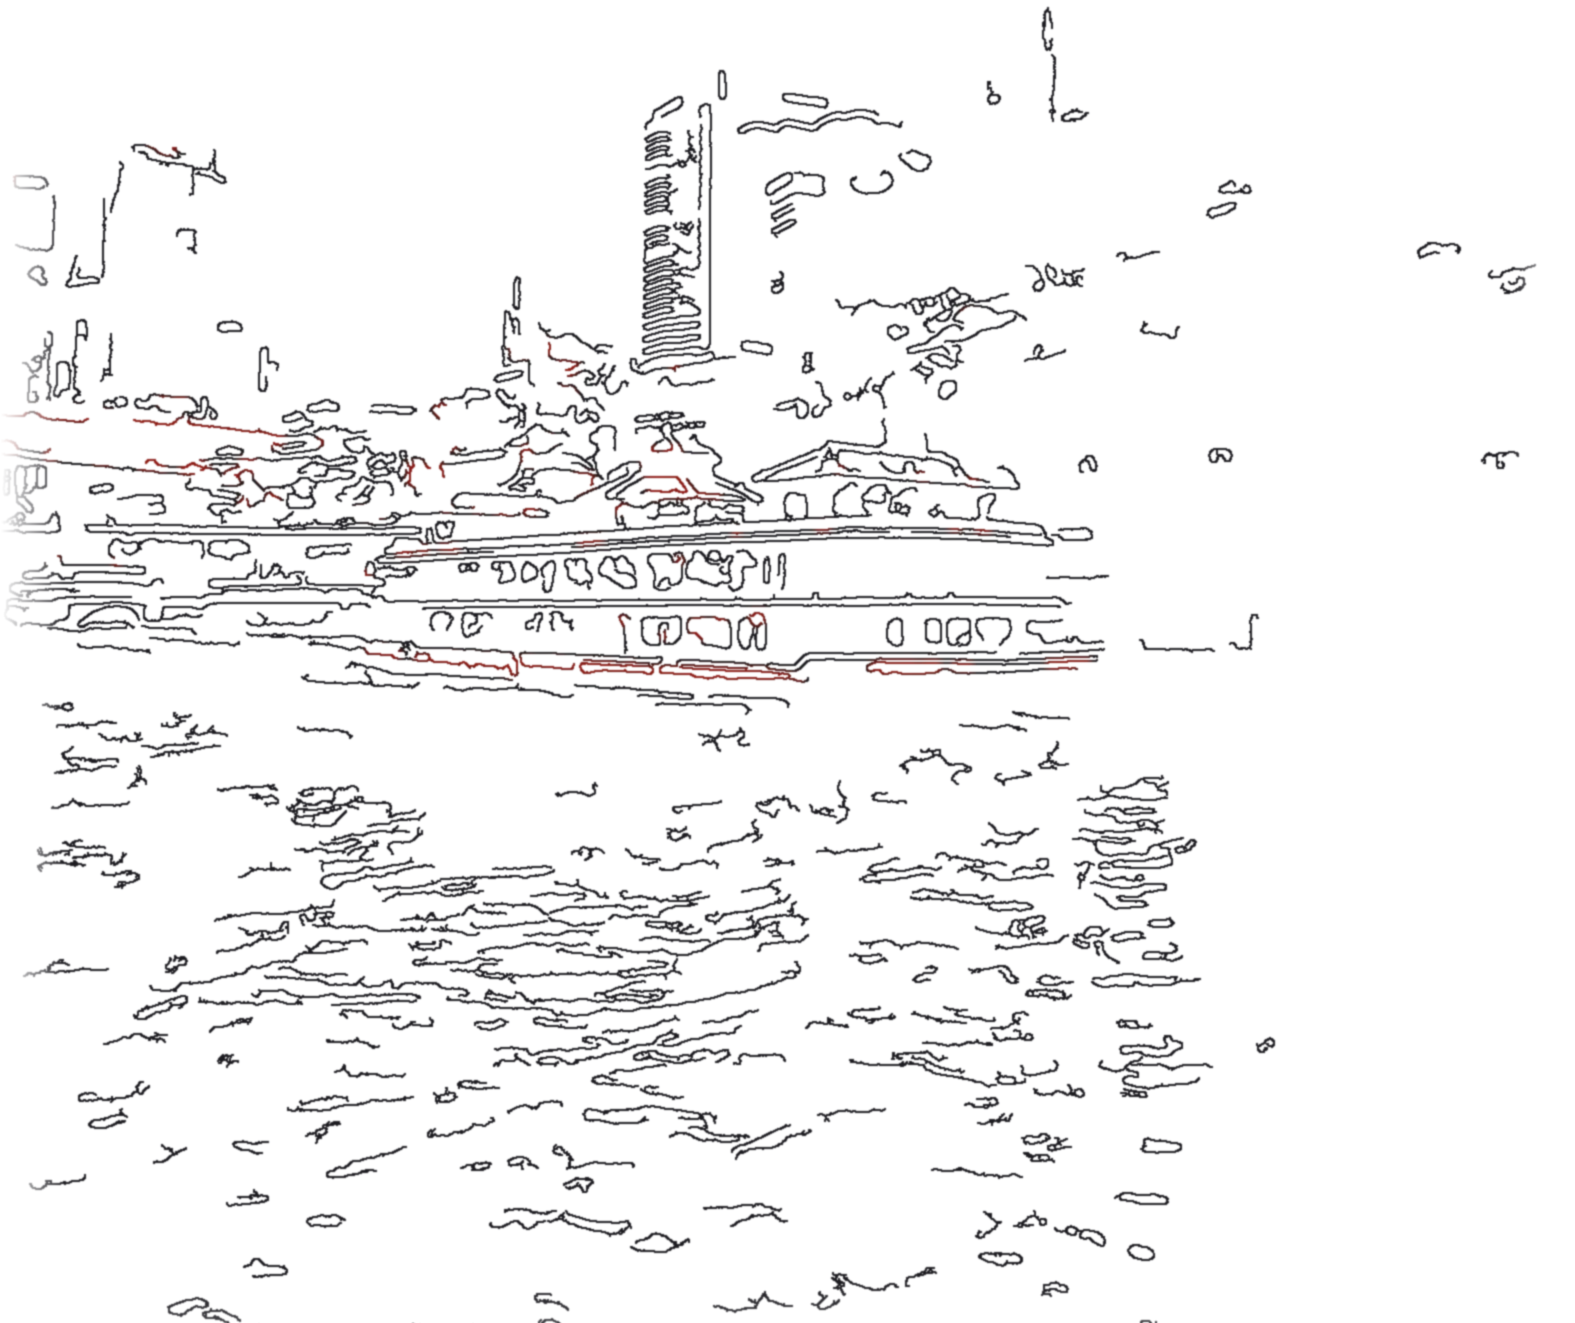
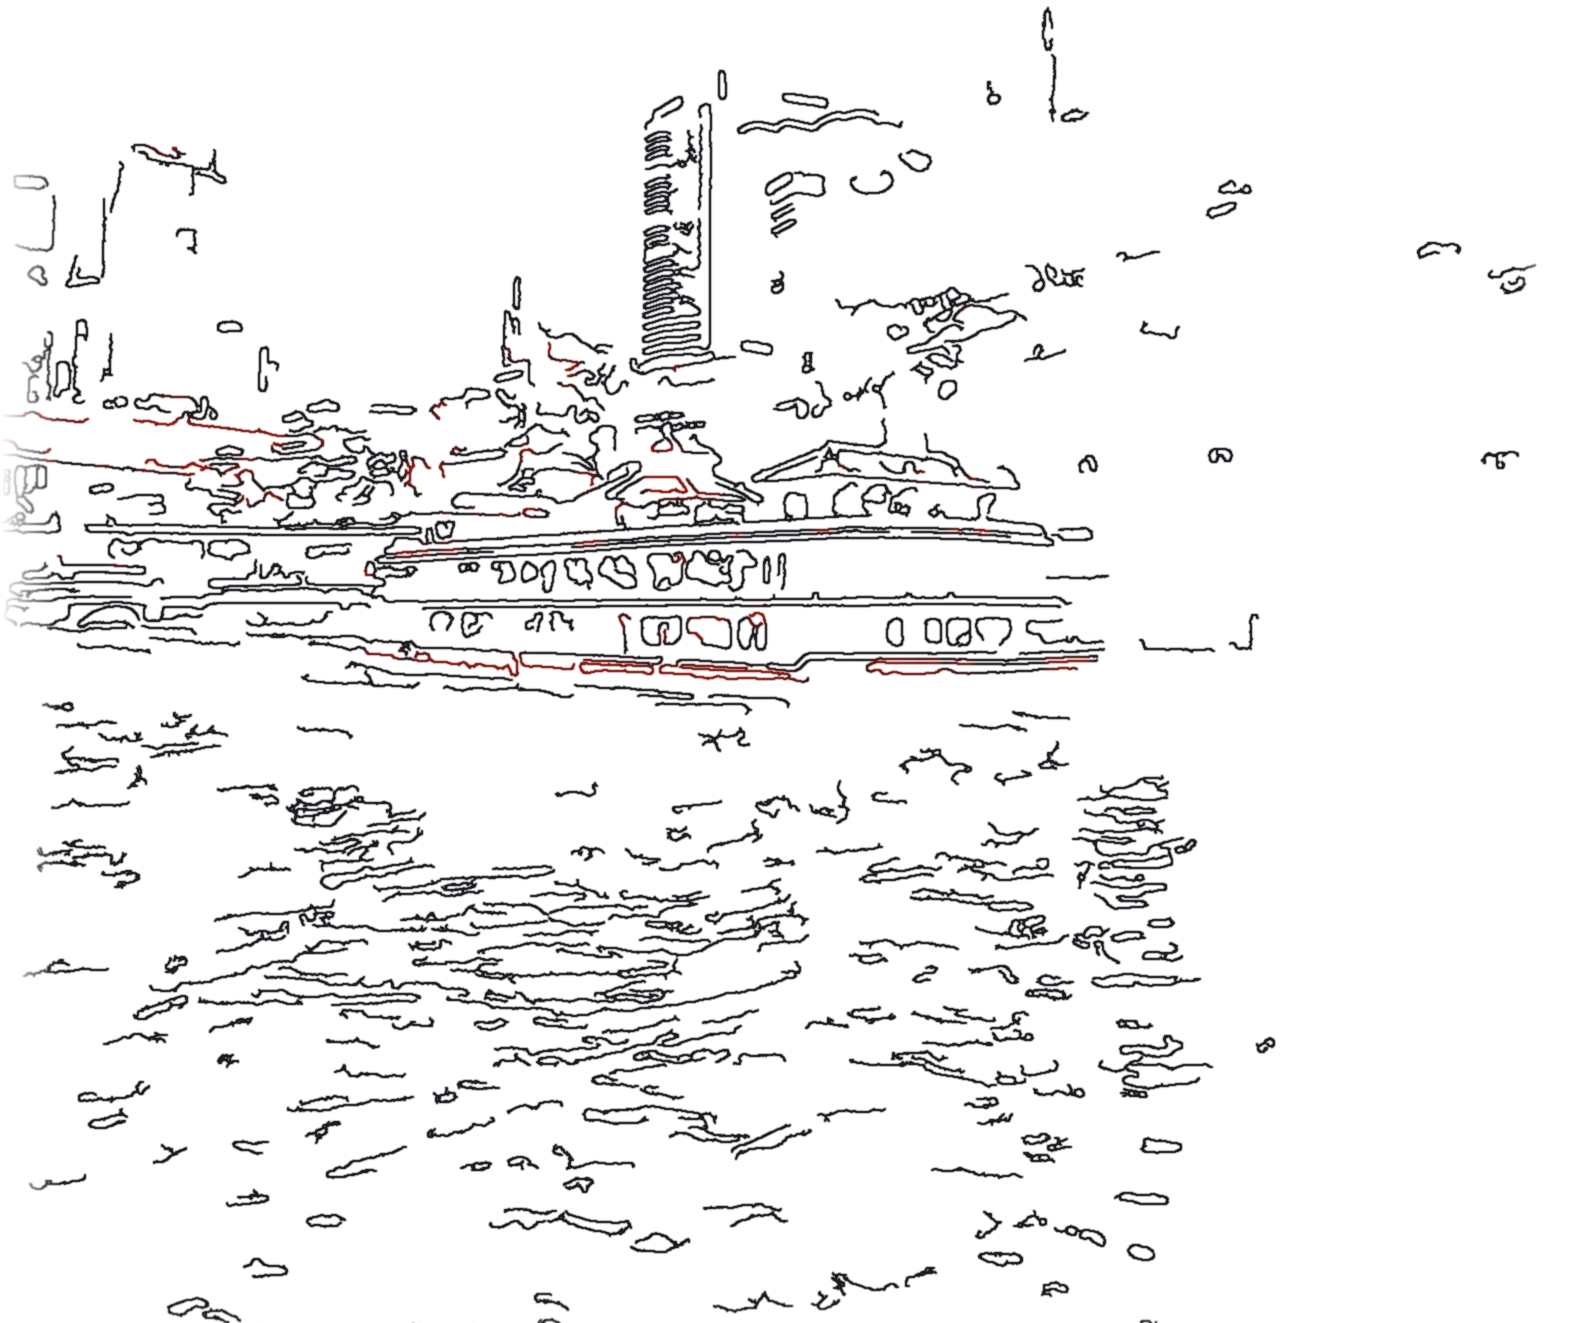
Rename Every project to Projects; stronger river outline plus lantern trees in Gifts gap
Claude-Session: https://claude.ai/code/session_01T5woLMHopgRHXwVs3rVBcW

diff --git a/index.html b/index.html
@@ -316,7 +316,8 @@ section.block{padding:clamp(96px,12vw,170px) var(--gut) 0;position:relative}
 /* gifts: paintings hung like a family wall */
 .gwall{column-count:3;column-gap:clamp(16px,2.4vw,36px);max-width:1440px}
 .gifts{position:relative;isolation:isolate}
-.gback{position:absolute;left:-4vw;bottom:-2%;width:min(1000px,72vw);aspect-ratio:1575/1323;background:url(assets/hero/river-ink.webp) center/contain no-repeat;opacity:.34;transform:translate3d(0,var(--gp,0px),0);z-index:-1;pointer-events:none}
+.gback{position:absolute;left:-2vw;bottom:0;width:min(820px,58vw);aspect-ratio:1575/1323;background:url(assets/hero/river-ink.webp) center bottom/contain no-repeat;opacity:.7;transform:translate3d(0,var(--gp,0px),0);z-index:-1;pointer-events:none}
+.gback.t{left:auto;right:auto;left:min(780px,52vw);width:min(430px,30vw);aspect-ratio:1/1.3;background-image:url(assets/hero/trees-ink.webp);opacity:.6}
 .gline{font-family:var(--disp);font-style:italic;font-size:clamp(15px,1.15vw,17px);line-height:1.6;letter-spacing:0;max-width:52ch;margin:-8px 0 clamp(44px,6vw,84px) calc(clamp(40px,6.6vw,108px)*1.4)}
 .gtag{font-family:var(--sc);font-style:normal;font-size:.9em;letter-spacing:.06em;color:var(--accent);margin-right:.5em}
 .gsub{max-width:46ch;color:var(--mute);font-size:clamp(14px,1.1vw,16px);line-height:1.65;margin:0 0 clamp(44px,6vw,84px) calc(clamp(40px,6.6vw,108px)*1.4)}
@@ -469,7 +470,7 @@ dialog.drawer[open]{animation:slide .5s var(--ease)}
   </section>
 
   <section class="block" id="index" aria-labelledby="index-h">
-    <div class="head"><h2 id="index-h">Every project</h2></div>
+    <div class="head"><h2 id="index-h">Projects</h2></div>
     <div class="filters" role="group" aria-label="Filter projects" id="filters"></div>
     <ul class="index" id="list"></ul>
   </section>
@@ -538,7 +539,7 @@ dialog.drawer[open]{animation:slide .5s var(--ease)}
   </section>
 
   <section class="block gifts" id="gifts" aria-labelledby="gifts-h">
-    <div class="gback" aria-hidden="true"></div>
+    <div class="gback" aria-hidden="true"></div><div class="gback t" aria-hidden="true"></div>
     <div class="head"><h2 id="gifts-h"><span class="ico sym ico-coin" aria-hidden="true"></span>Gifts</h2></div>
     <p class="gline"><span class="gtag">Side quest</span> Watercolors I painted for my parents, for birthdays and holidays. Just for fun, not a project.<svg class="seal static gseal" viewBox="0 0 100 100" aria-hidden="true"><use href="#sealg" filter="url(#stampfx)"/></svg></p>
     <div class="gwall" id="gwall"></div>
@@ -863,7 +864,7 @@ let glitchKick=()=>{};
   figs.forEach((f,i)=>{ f.style.setProperty("--rot",ROT[i]+"deg"); f.style.setProperty("--tx",TX[i]+"%"); f.style.setProperty("--tr",TR[i]+"deg"); });
   const sec=$("#gifts"), back=sec.querySelector(".gback"); let tick=false;
   const par=()=>{ tick=false; const vh=innerHeight, r=sec.getBoundingClientRect(); if(r.bottom<-200||r.top>vh+200) return;
-    if(!matchMedia("(prefers-reduced-motion:reduce)").matches&&innerWidth>900){ figs.forEach((f,i)=>{ const b=f.getBoundingClientRect(); f.style.setProperty("--py",((b.top+b.height/2-vh/2)*SP[i]).toFixed(1)+"px"); }); back.style.setProperty("--gp",(r.top*-.12).toFixed(1)+"px"); } };
+    if(!matchMedia("(prefers-reduced-motion:reduce)").matches&&innerWidth>900){ figs.forEach((f,i)=>{ const b=f.getBoundingClientRect(); f.style.setProperty("--py",((b.top+b.height/2-vh/2)*SP[i]).toFixed(1)+"px"); }); sec.querySelectorAll(".gback").forEach(b=>b.style.setProperty("--gp",(r.top*-.06).toFixed(1)+"px")); } };
   addEventListener("scroll",()=>{ if(!tick){ tick=true; requestAnimationFrame(par); } },{passive:true}); par();
   new IntersectionObserver(([e])=>{ if(e.isIntersecting) sec.classList.add("seen"); },{threshold:.25}).observe($(".gline"));
   const io=new IntersectionObserver(es=>es.forEach(en=>{ if(en.isIntersecting){ en.target.classList.add("in"); io.unobserve(en.target); } }),{threshold:.08});
